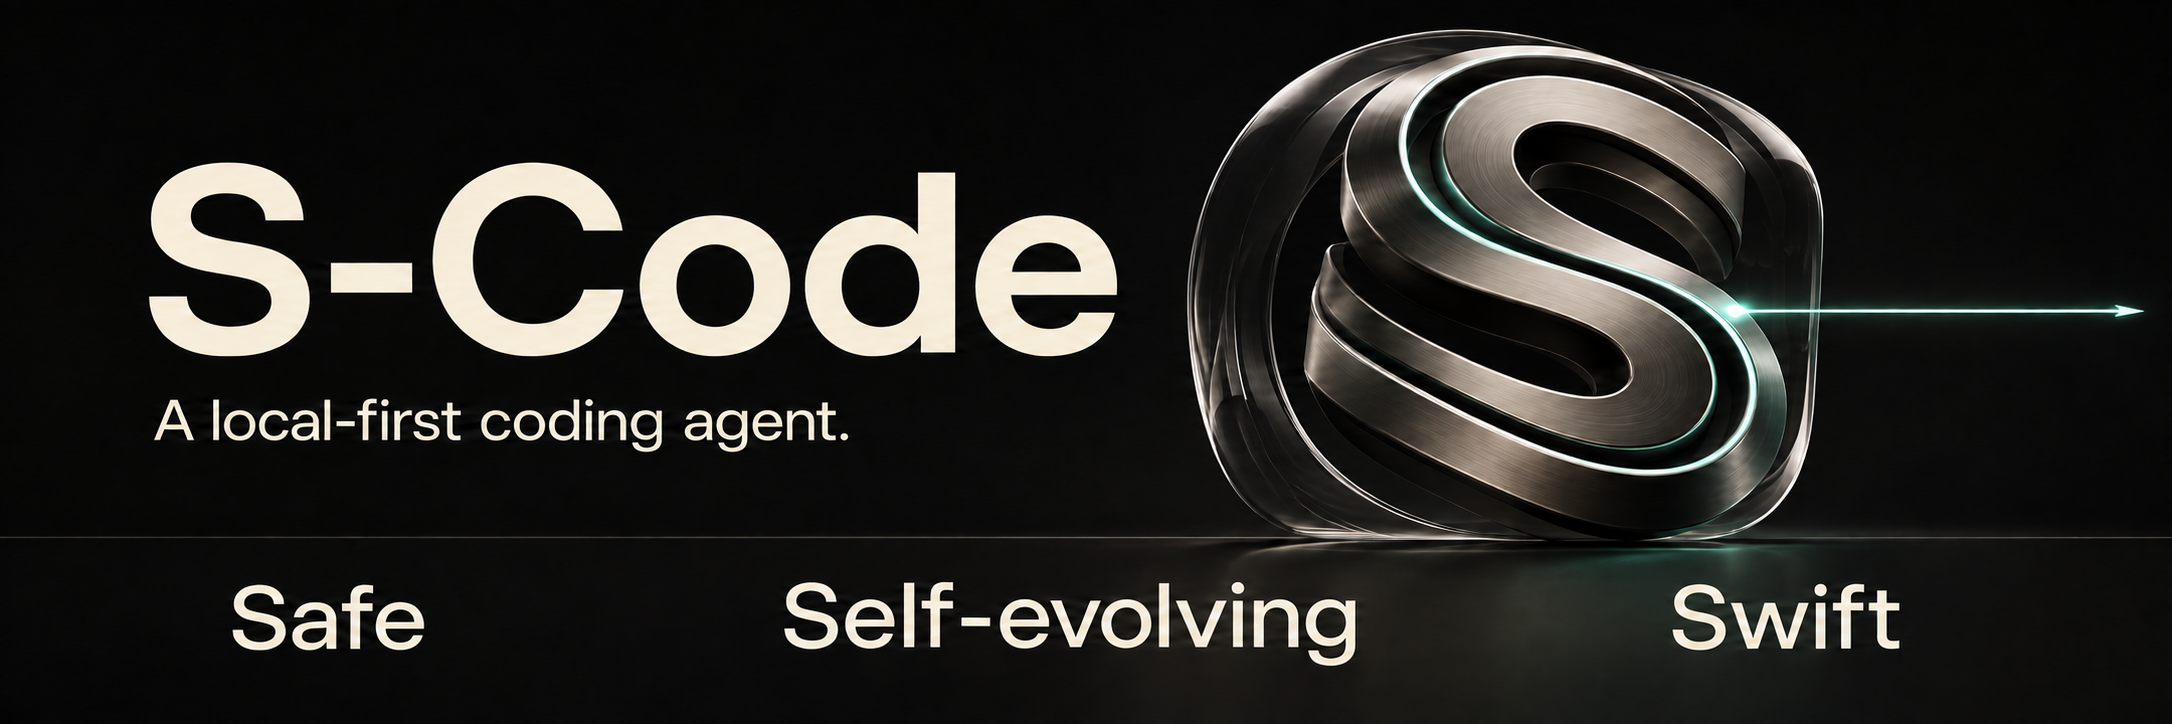
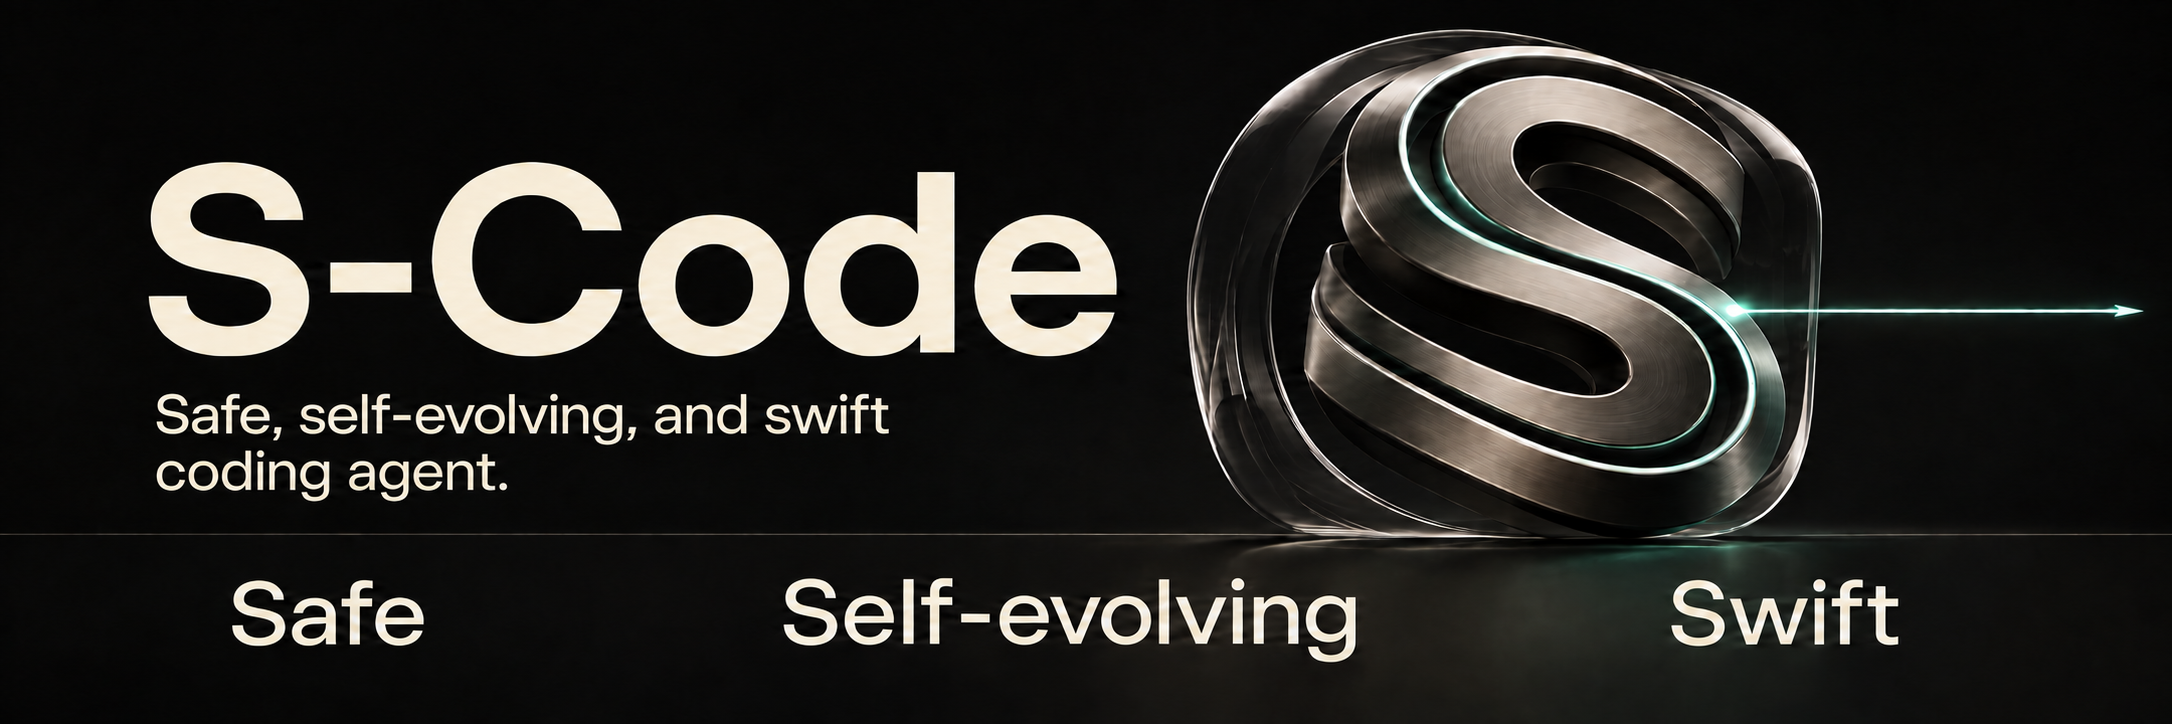
docs: move publication to SAI Foundation and unify the S-Code slogan

diff --git a/docs-site/app/page.tsx b/docs-site/app/page.tsx
@@ -49,10 +49,10 @@ export default function Home() {
                 S-Code · Developer Preview
               </div>
               <h1 className="max-w-4xl text-balance text-[clamp(2.8rem,7vw,6.5rem)] font-semibold leading-[0.93] tracking-[-0.065em]">
-                Build agents that<br />finish the job.
+                Safe, self-evolving,<br />and swift coding agent.
               </h1>
               <p className="mt-7 max-w-2xl text-pretty text-lg leading-8 text-muted-foreground sm:text-xl">
-                A local-first coding harness where model calls, tools, policy, approvals, tests, and evidence run as one dependable system.
+                Create, edit, and test code in your terminal or browser, with guarded file changes, reusable project experience, and efficient tool execution.
               </p>
               <div className="mt-9 flex flex-wrap gap-3">
                 <Link className="primary-action" href="/docs/quick-start">Get started <ArrowRight className="size-4" /></Link>
@@ -94,7 +94,7 @@ export default function Home() {
                     <span className="flex items-center gap-2"><TerminalSquare className="size-3.5" /> Terminal</span>
                     <span className="flex items-center gap-1 text-emerald-300"><Check className="size-3" /> macOS + Linux</span>
                   </div>
-                  <pre className="overflow-x-auto p-5 font-mono text-[13px] leading-7 text-slate-200"><code><span className="text-slate-500">$</span> git clone https://github.com/sl-7qx/s-code.git{`\n`}<span className="text-slate-500">$</span> cd s-code{`\n`}<span className="text-slate-500">$</span> scripts/install-from-source.sh{`\n`}<span className="text-slate-500">$</span> export PATH=&quot;$HOME/.local/bin:$PATH&quot;{`\n`}<span className="text-slate-500">$</span> s-code setup{`\n`}<span className="text-slate-500">$</span> s-code doctor{`\n`}<span className="text-slate-500">$</span> s-code</code></pre>
+                  <pre className="overflow-x-auto p-5 font-mono text-[13px] leading-7 text-slate-200"><code><span className="text-slate-500">$</span> git clone https://github.com/sai-foundation/s-code.git{`\n`}<span className="text-slate-500">$</span> cd s-code{`\n`}<span className="text-slate-500">$</span> scripts/install-from-source.sh{`\n`}<span className="text-slate-500">$</span> export PATH=&quot;$HOME/.local/bin:$PATH&quot;{`\n`}<span className="text-slate-500">$</span> s-code setup{`\n`}<span className="text-slate-500">$</span> s-code doctor{`\n`}<span className="text-slate-500">$</span> s-code</code></pre>
                 </div>
               </section>
 

diff --git a/docs-site/app/layout.tsx b/docs-site/app/layout.tsx
@@ -1,8 +1,8 @@
 import type { Metadata } from 'next';
 import './globals.css';
 
-const siteUrl = new URL('https://sl-7qx.github.io/s-code-docs/');
-const description = 'Product documentation for the local-first S-Code coding-agent execution plane.';
+const siteUrl = new URL('https://sai-foundation.github.io/s-code-docs/');
+const description = 'S-Code: Safe, self-evolving, and swift coding agent. Guides for your terminal and browser.';
 
 export const metadata: Metadata = {
   metadataBase: siteUrl,
@@ -18,7 +18,7 @@ export const metadata: Metadata = {
     title: 'S-Code Documentation',
     description,
     siteName: 'S-Code Docs',
-    images: [{ url: '/og.png', width: 1200, height: 630, alt: 'S-Code Docs — Build agents that finish the job.' }],
+    images: [{ url: '/og.png', width: 1731, height: 909, alt: 'S-Code Docs — Safe, self-evolving, and swift coding agent.' }],
   },
   twitter: {
     card: 'summary_large_image',

diff --git a/docs-site/components/docs-shell.tsx b/docs-site/components/docs-shell.tsx
@@ -43,7 +43,7 @@ export function DocsShell({ doc, children }: { doc: DocEntry; children: React.Re
               {doc.headings.map((heading) => <li key={heading.id}><a className="transition hover:text-foreground" href={`#${heading.id}`}>{heading.label}</a></li>)}
             </ul>
           </nav>
-          <a href={`https://github.com/sl-7qx/s-code/edit/main/${doc.sourcePath}`} className="mt-9 block border-t border-border pt-5 text-xs text-muted-foreground hover:text-foreground">Improve this page →</a>
+          <a href={`https://github.com/sai-foundation/s-code/edit/main/${doc.sourcePath}`} className="mt-9 block border-t border-border pt-5 text-xs text-muted-foreground hover:text-foreground">Improve this page →</a>
         </aside>
       </div>
     </div>

diff --git a/docs-site/components/site-header.tsx b/docs-site/components/site-header.tsx
@@ -113,7 +113,7 @@ export function SiteHeader({ activeSlug }: { activeSlug?: string }) {
             <Button variant="ghost" size="icon" aria-label={dark ? 'Use light theme' : 'Use dark theme'} onClick={toggleTheme}>
               {dark ? <Sun /> : <Moon />}
             </Button>
-            <a href="https://github.com/sl-7qx/s-code" className="header-link inline-flex p-2" aria-label="Open the S-Code repository on GitHub">
+            <a href="https://github.com/sai-foundation/s-code" className="header-link inline-flex p-2" aria-label="Open the S-Code repository on GitHub">
               <GitFork className="size-4" />
               <span className="hidden xl:inline">GitHub</span>
             </a>

diff --git a/scripts/check-community-tree.py b/scripts/check-community-tree.py
@@ -49,7 +49,7 @@ def main() -> int:
             fail("Community repository is not declared as its own source authority")
         repository = contract["public_repository"]
         identity = contract["repository_identity"]
-        if identity.get("url") != "https://github.com/sl-7qx/s-code":
+        if identity.get("url") != "https://github.com/sai-foundation/s-code":
             fail("canonical repository identity is invalid")
         if not isinstance(identity.get("publication_enabled"), bool):
             fail("publication_enabled must be an explicit boolean")

diff --git a/README.md b/README.md
@@ -4,7 +4,8 @@
 
 <img src="assets/s-code-teaser.png" width="960" alt="S-Code — Safe. Self-evolving. Swift." />
 
-A local-first coding agent for your terminal and browser.<br>
+**Safe, self-evolving, and swift coding agent.**<br>
+For your terminal and browser.<br>
 **Protect credentials. Reuse context. Cut repeated work.**
 
 <p>
@@ -13,7 +14,7 @@ A local-first coding agent for your terminal and browser.<br>
   <a href="docs/deployment/preview-release.md"><img alt="Source-only Developer Preview" src="https://img.shields.io/badge/status-source%20preview-31865b?style=flat-square&amp;labelColor=26332b"></a>
 </p>
 
-[**Get started**](#get-started) · [Documentation](https://sl-7qx.github.io/s-code-docs/) · [Security](#privacy-and-control) · [Benchmarks](#efficiency-and-evidence)
+[**Get started**](#get-started) · [Documentation](https://sai-foundation.github.io/s-code-docs/) · [Security](#privacy-and-control) · [Benchmarks](#efficiency-and-evidence)
 
 </div>
 
@@ -29,7 +30,7 @@ or Node.js yourself. [Installation details →](docs/deployment/community.md#pre
 **1. Install from source**
 
 ```sh
-git clone https://github.com/sl-7qx/s-code.git
+git clone https://github.com/sai-foundation/s-code.git
 cd s-code
 scripts/install-from-source.sh
 ```
@@ -269,7 +270,7 @@ in Local Web. The default development proxy endpoint is
 
 | Resource | Start here for |
 | --- | --- |
-| [Product documentation](https://sl-7qx.github.io/s-code-docs/) | Guides and architecture reference |
+| [Product documentation](https://sai-foundation.github.io/s-code-docs/) | Guides and architecture reference |
 | [Security architecture](docs/architecture/security.md) | Sandbox, credentials, browser and audit boundaries |
 | [Tools and permissions](docs/guides/tools-permissions.md) | What the agent may do |
 | [Model endpoints](docs/guides/model-endpoints.md) | Provider and local model setup |

diff --git a/docs-site/PUBLISHING.md b/docs-site/PUBLISHING.md
@@ -1,7 +1,7 @@
 # Public documentation publishing
 
-The public documentation is hosted at <https://sl-7qx.github.io/s-code-docs/>.
-GitHub Pages serves the `gh-pages` branch of `sl-7qx/s-code-docs`. That public
+The public documentation is hosted at <https://sai-foundation.github.io/s-code-docs/>.
+GitHub Pages serves the `gh-pages` branch of `sai-foundation/s-code-docs`. That public
 repository contains generated documentation assets only. Authoring stays in
 this repository, with source changes reviewed through pull requests.
 
@@ -13,7 +13,8 @@ navigation, page search, color themes and responsive layouts.
 
 After a reviewed source change, rebuild and copy the contents of `out/` into
 a clean checkout of the public documentation repository's `gh-pages` branch.
-Commit the generated files with a DCO sign-off, push, and wait for the GitHub
+Commit the generated files with a DCO sign-off on a publishing branch and open
+a pull request into `gh-pages`. After merging that pull request, wait for the GitHub
 Pages deployment to finish. Keep `.nojekyll` in the output. Verify the homepage
 and a nested document without authentication before sharing the link.
 

diff --git a/docs-site/content/product/privacy-security-comparison.md b/docs-site/content/product/privacy-security-comparison.md
@@ -147,9 +147,9 @@ published controls, not a claim that other products are unsafe.
 
 ## Sources and verification
 
-- [S-Code: platform sandbox implementation](https://github.com/sl-7qx/s-code/blob/main/crates/platform-runtime/src/lib.rs)
-- [S-Code: tool execution and version preconditions](https://github.com/sl-7qx/s-code/blob/main/crates/execution/src/lib.rs)
-- [S-Code: Local Web bootstrap and security headers](https://github.com/sl-7qx/s-code/blob/main/crates/daemon/src/lib.rs)
+- [S-Code: platform sandbox implementation](https://github.com/sai-foundation/s-code/blob/main/crates/platform-runtime/src/lib.rs)
+- [S-Code: tool execution and version preconditions](https://github.com/sai-foundation/s-code/blob/main/crates/execution/src/lib.rs)
+- [S-Code: Local Web bootstrap and security headers](https://github.com/sai-foundation/s-code/blob/main/crates/daemon/src/lib.rs)
 - [Other Agent A: published threat model](https://github.com/anomalyco/opencode/security)
 - [Other Agent A: permission rules](https://opencode.ai/v2/docs/permissions)
 - [Other Agent A: privacy information](https://opencode.ai/)

diff --git a/docs/product/privacy-security-comparison.md b/docs/product/privacy-security-comparison.md
@@ -147,9 +147,9 @@ published controls, not a claim that other products are unsafe.
 
 ## Sources and verification
 
-- [S-Code: platform sandbox implementation](https://github.com/sl-7qx/s-code/blob/main/crates/platform-runtime/src/lib.rs)
-- [S-Code: tool execution and version preconditions](https://github.com/sl-7qx/s-code/blob/main/crates/execution/src/lib.rs)
-- [S-Code: Local Web bootstrap and security headers](https://github.com/sl-7qx/s-code/blob/main/crates/daemon/src/lib.rs)
+- [S-Code: platform sandbox implementation](https://github.com/sai-foundation/s-code/blob/main/crates/platform-runtime/src/lib.rs)
+- [S-Code: tool execution and version preconditions](https://github.com/sai-foundation/s-code/blob/main/crates/execution/src/lib.rs)
+- [S-Code: Local Web bootstrap and security headers](https://github.com/sai-foundation/s-code/blob/main/crates/daemon/src/lib.rs)
 - [Other Agent A: published threat model](https://github.com/anomalyco/opencode/security)
 - [Other Agent A: permission rules](https://opencode.ai/v2/docs/permissions)
 - [Other Agent A: privacy information](https://opencode.ai/)

diff --git a/docs-site/content/README.md b/docs-site/content/README.md
@@ -5,7 +5,7 @@ title: Introduction to S-Code
 short_title: Introduction
 group: Start here
 order: 10
-description: Meet S-Code, a local-first coding agent for your terminal and browser.
+description: Safe, self-evolving, and swift coding agent.
 keywords:
   - overview
   - s-code
@@ -15,8 +15,8 @@ keywords:
 
 # Introduction to S-Code
 
-S-Code is a local-first coding agent for your terminal and browser, licensed
-under Apache-2.0. Both interfaces share a local service for model calls, tools,
+S-Code is a safe, self-evolving, and swift coding agent for your terminal and
+browser, licensed under Apache-2.0. Both interfaces share a local service for model calls, tools,
 permissions and session history.
 
 An agent turn can inspect your repository, edit files, run tests and recover

diff --git a/docs/README.md b/docs/README.md
@@ -5,7 +5,7 @@ title: Introduction to S-Code
 short_title: Introduction
 group: Start here
 order: 10
-description: Meet S-Code, a local-first coding agent for your terminal and browser.
+description: Safe, self-evolving, and swift coding agent.
 keywords:
   - overview
   - s-code
@@ -15,8 +15,8 @@ keywords:
 
 # Introduction to S-Code
 
-S-Code is a local-first coding agent for your terminal and browser, licensed
-under Apache-2.0. Both interfaces share a local service for model calls, tools,
+S-Code is a safe, self-evolving, and swift coding agent for your terminal and
+browser, licensed under Apache-2.0. Both interfaces share a local service for model calls, tools,
 permissions and session history.
 
 An agent turn can inspect your repository, edit files, run tests and recover

diff --git a/CONTRIBUTING.md b/CONTRIBUTING.md
@@ -11,7 +11,7 @@ pull-request, review and CI process, without requiring access to private systems
 - Use an issue for a substantial feature, protocol change, new dependency or
   behavior that changes security, compatibility or release artifacts.
 - Report vulnerabilities privately through
-  [GitHub Security Advisories](https://github.com/sl-7qx/s-code/security/advisories/new),
+  [GitHub Security Advisories](https://github.com/sai-foundation/s-code/security/advisories/new),
   never in a public issue.
 - Keep S-Code buildable, testable and runnable without private packages,
   services or build inputs.
